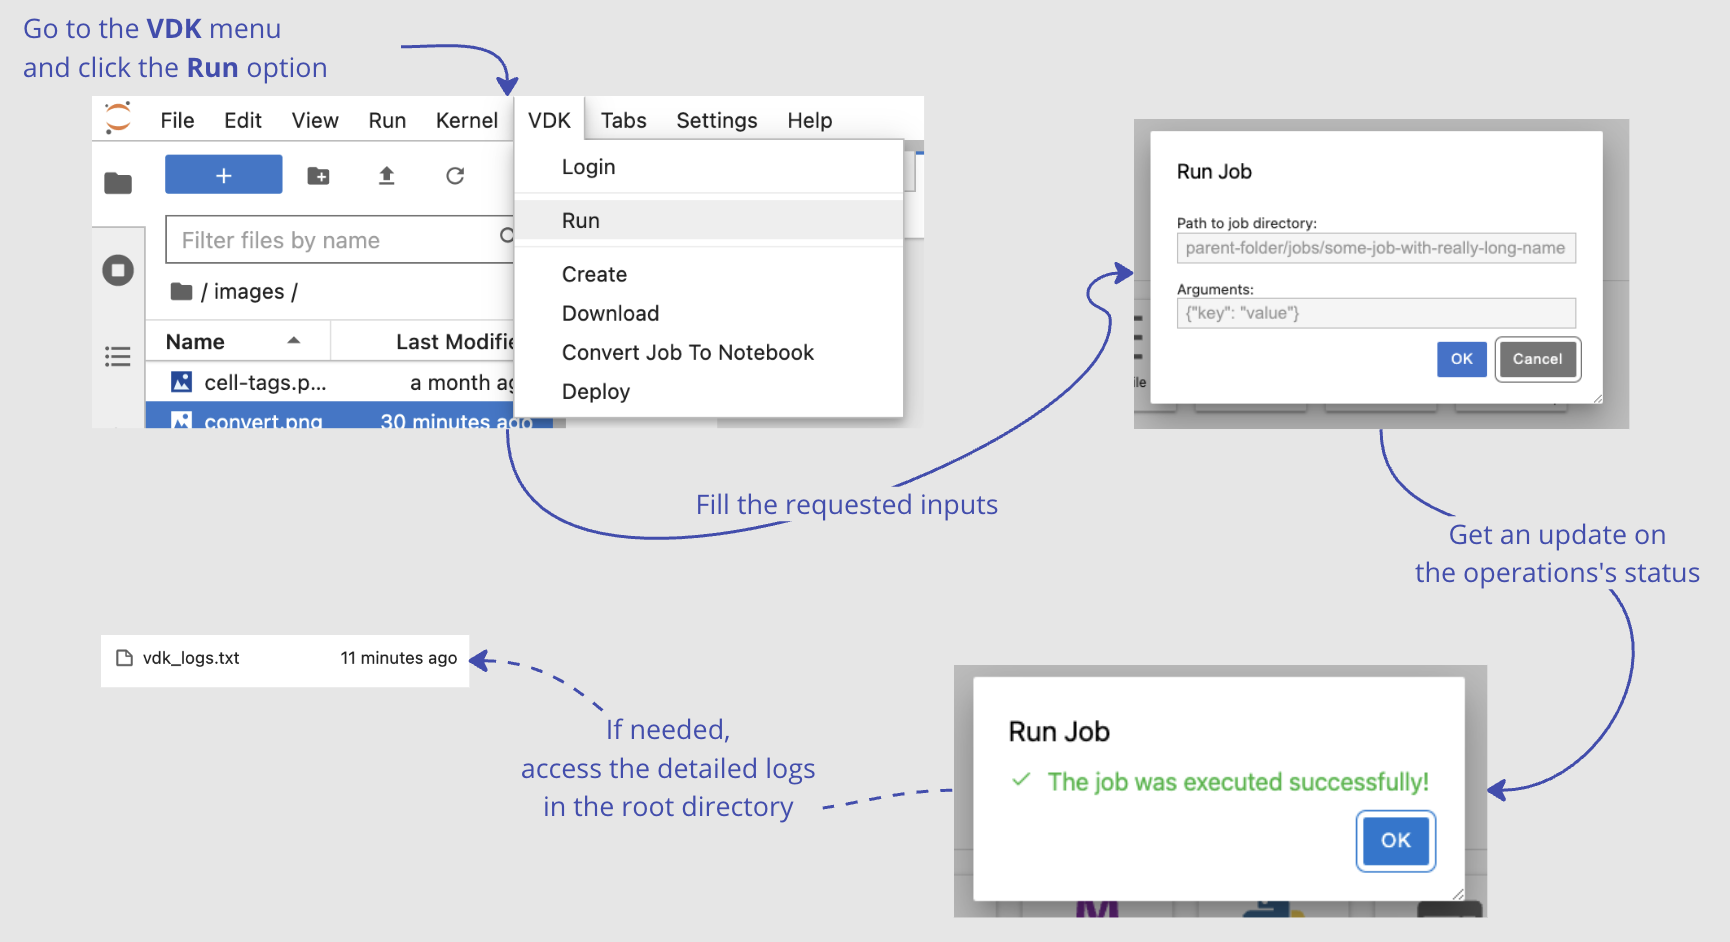
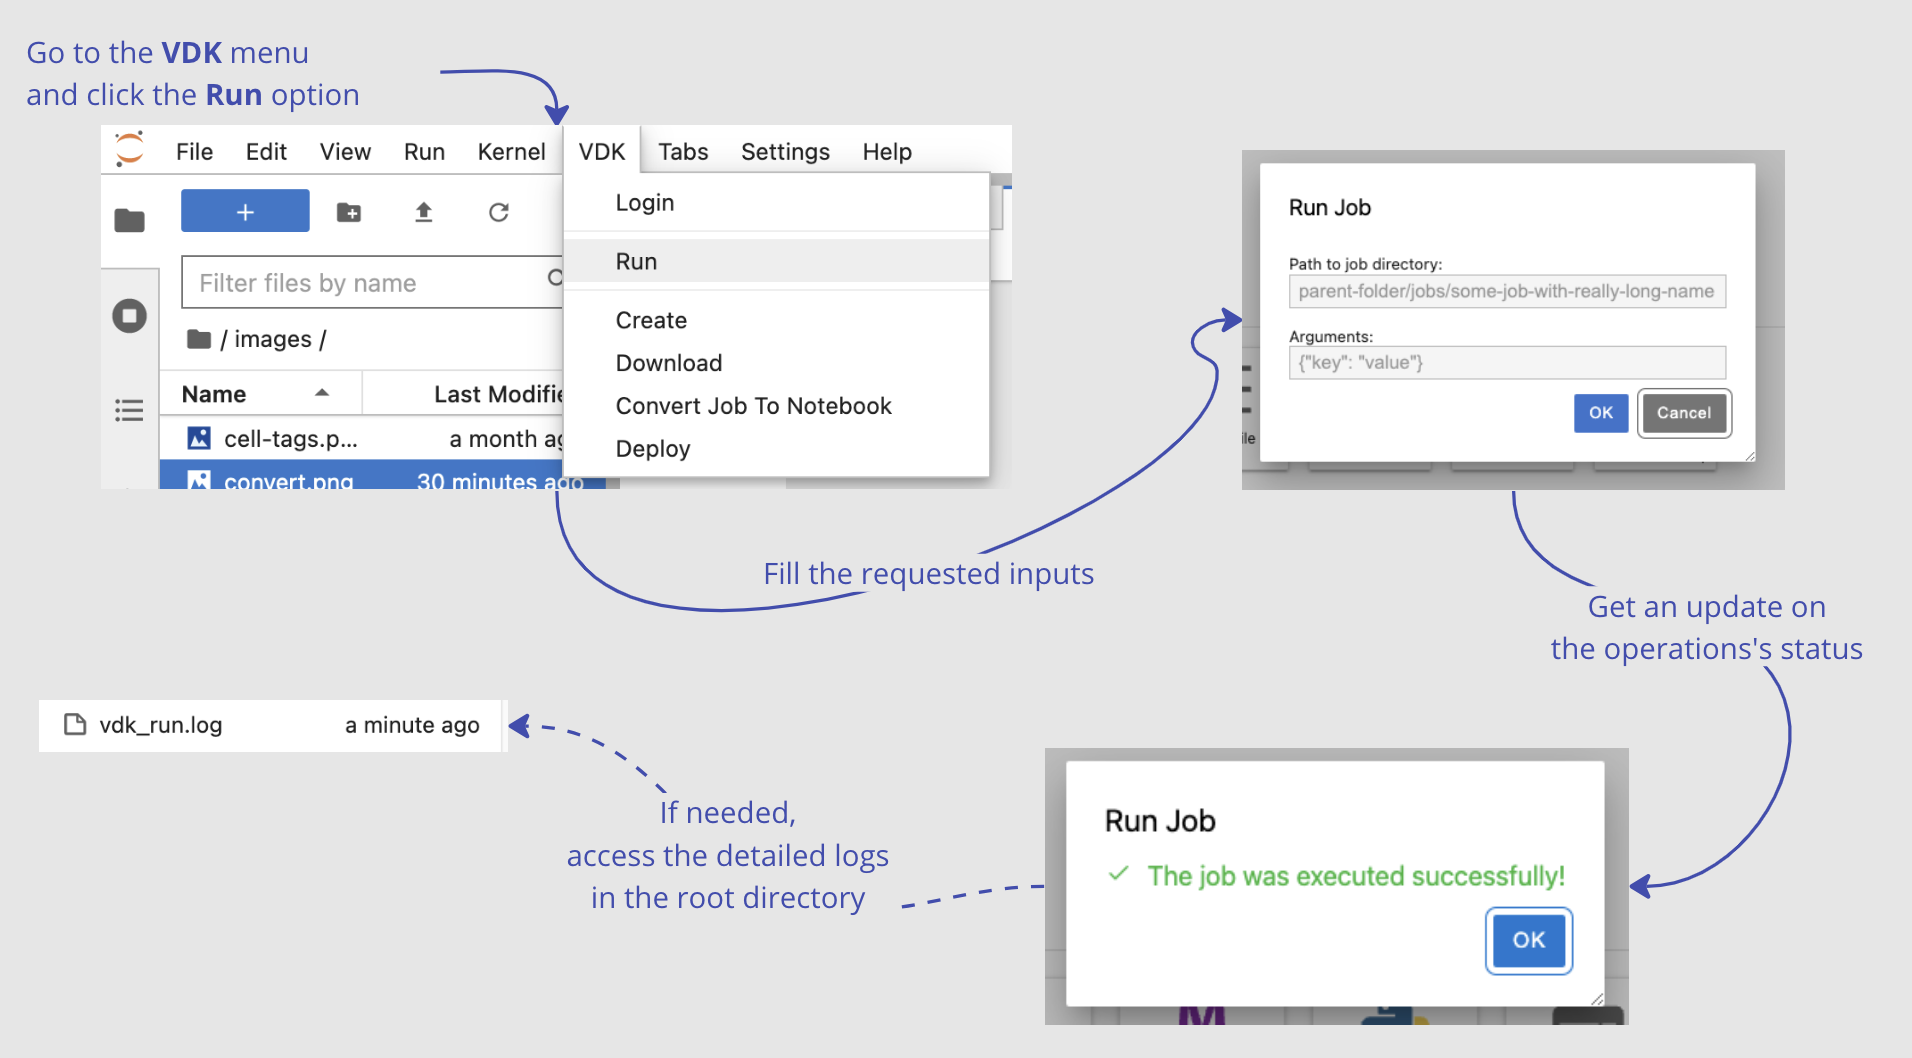
vdk-jupyter: rename log file (#2703)
What:
Renamed vdk_logs.txt to vdk_run.log.

Why:
The name vdk_run.log immediately suggests that the file contains logs
related to the run of VDK.
It’s a common practice to name log files with a .log extension as it
clearly indicates the nature of the file content, allowing users to
quickly understand the purpose of the file.

diff --git a/projects/vdk-plugins/vdk-jupyter/vdk-jupyterlab-extension/src/utils.ts b/projects/vdk-plugins/vdk-jupyter/vdk-jupyterlab-extension/src/utils.ts
@@ -19,4 +19,4 @@ export const ERROR_DIALOG_CLASS = 'vdk-error-dialog';
 export const LOGIN2_INPUT_CLASS = 'jp-vdk-login2-input';
 export const LOGIN2_BUTTON_CLASS = 'jp-vdk-login2-button';
 export const LOGIN2_DIALOG_CLASS = 'jp-vdk-login2-dialog-container';
-export const RUN_LOG_FILE = 'vdk_logs.txt';
+export const RUN_LOG_FILE = 'vdk_run.log';

diff --git a/projects/vdk-plugins/vdk-jupyter/vdk-jupyterlab-extension/vdk_jupyterlab_extension/vdk_ui.py b/projects/vdk-plugins/vdk-jupyter/vdk-jupyterlab-extension/vdk_jupyterlab_extension/vdk_ui.py
@@ -60,7 +60,7 @@ class VdkUI:
         ]
         if len(script_files) == 0:
             return {"message": f"No steps were found in {path}!"}
-        with open("vdk_logs.txt", "w+") as log_file:
+        with open("vdk_run.log", "w+") as log_file:
             path = shlex.quote(str(path))
             cmd: list[str] = ["vdk", "run", f"{path}"]
             if arguments:
